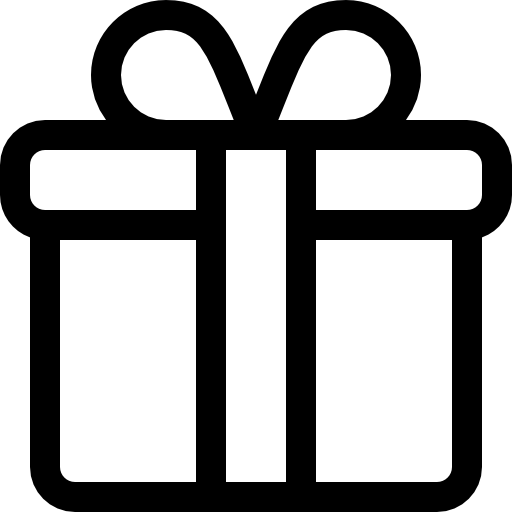
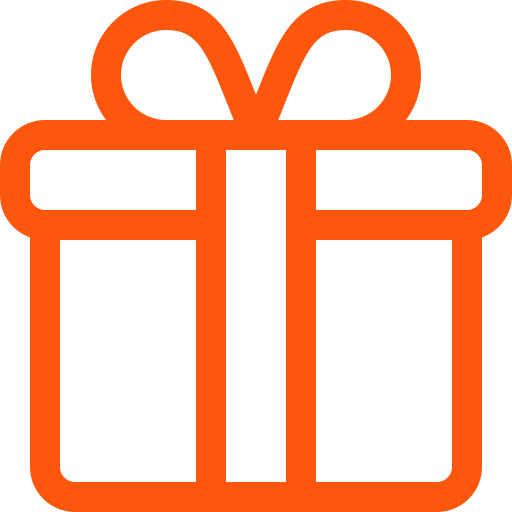
gabo commit

diff --git a/style.css b/style.css
@@ -80,7 +80,7 @@
       color: #555;
     }
     .price {
-      color: #f17611;
+      color: #FD560D;
       text-align: center;
       font-size: 3rem;
       font-weight: bold;
@@ -97,7 +97,7 @@
         background-color: #bfe6ee57;
 ;}
 .propuesta h2{
-  color: #f17611; ;
+  color: #FD560D; ;
   font-size: 30px;
   text-align: center;
 }
@@ -107,7 +107,7 @@
   margin: 62px 0px 40px 0px;
   font-weight: 400;
       text-align: center;
-    color: #f17611;
+    color: #FD560D;
 }
 .contenedor-propuesta{
   display: flex;
@@ -160,7 +160,7 @@
     border-radius: 50%;
     }
     .addon.active .check {
-      background: #f17611;
+      background: #FD560D;
 ;
       border-color: #9e4b06;
     }
@@ -177,7 +177,7 @@ color: #363636;
 font-size: 22px;  }
 
     .propuesta{
-      color: #f17611;
+      color: #FD560D;
     display: flex;
     width: 48vw;
     flex-direction: column;

diff --git a/index.html b/index.html
@@ -78,7 +78,7 @@
 
 
   <!-- Ya activado -->
-  <div class="addon active" data-price="0"> Landing Page inicial <img style="width: 24px;" src="regaloIcon.png" alt=""> <p>DE REGALO</p> </div>
+  <div class="addon active" data-price="0"> Landing Page inicial <img style="width: 24px;" src="regaloIcon.png" alt=""> <p style="color: #FD560D;">DE REGALO</p> </div>
   <p>Página de inicio y presentación</p>
 
 </div>
@@ -106,7 +106,7 @@
         </div>
 
 
-        <div class="price" id="price">$64.000</div>
+        <div class="price" id="price">$34.800</div>
         <p style="text-align: center; margin-top: -18px;">Pago mensual</p>
 
         <!-- <div class="addons">
